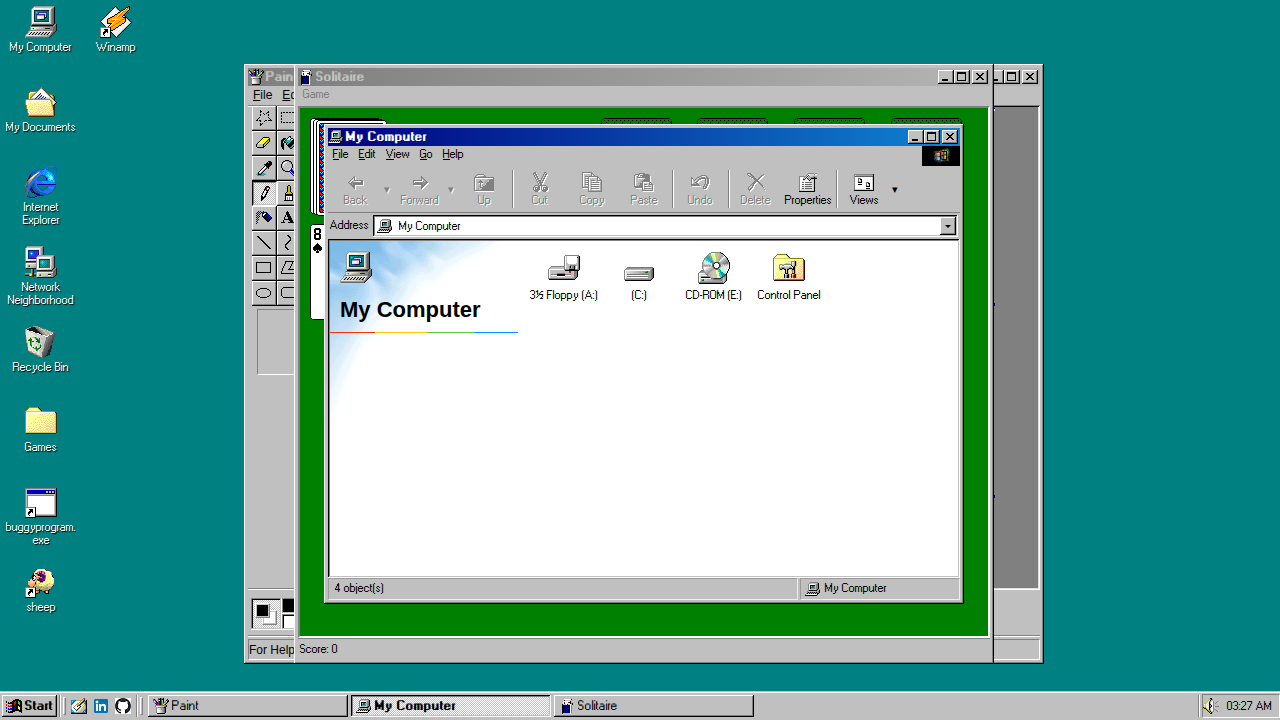
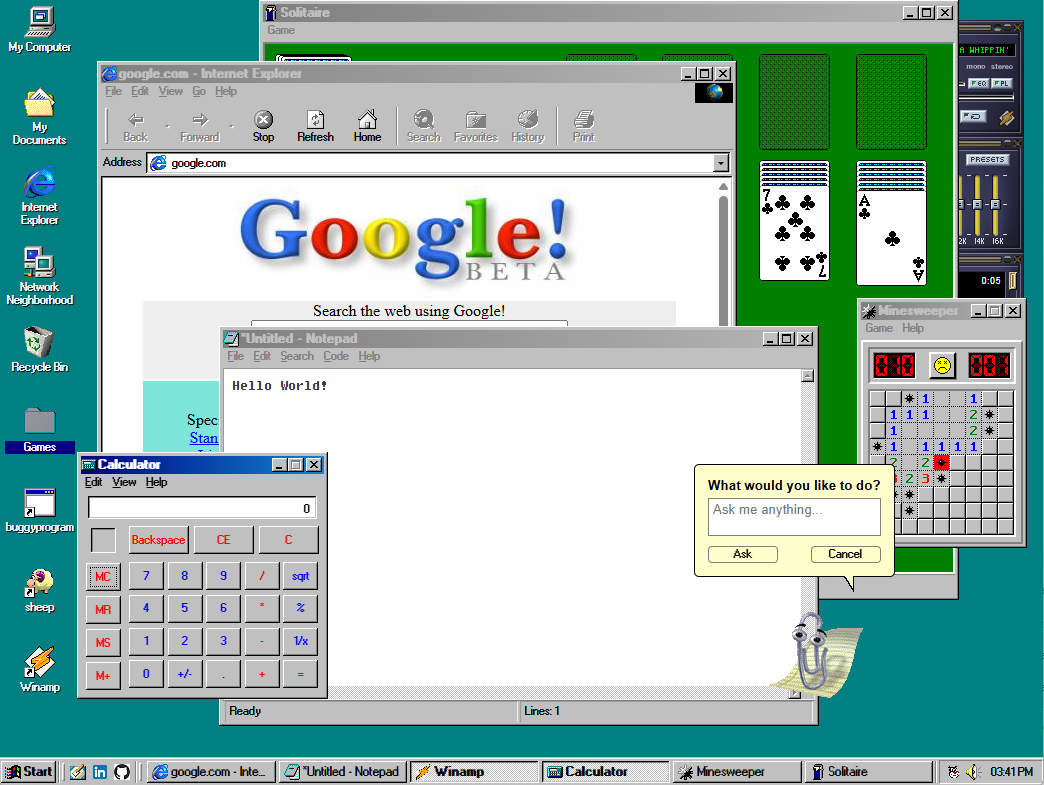
docs: fix README

diff --git a/README.md b/README.md
@@ -1,8 +1,8 @@
 # Windows 98 Web Edition
 
-> A nostalgic, browser‑based recreation of the Windows 98 desktop — built for curious users, retro enthusiasts, and developers who love tinkering.
+> An ultimate pixel-perfect browser‑based recreation attempt of Windows 98.
 
-A web-based recreation of the classic Windows 98 desktop experience, built using vanilla JavaScript, HTML, and CSS. Experience the familiar interface of Windows 98 directly in your modern browser, complete with working applications, customizable themes, and an AI-powered assistant.
+A web-based recreation of the classic Windows 98 desktop experience, built using vanilla JavaScript, HTML, and CSS. Experience the familiar interface of Windows 98 directly in your modern browser, complete with working applications and games, customizable themes, and an AI-powered Clippy.
 
 ![Windows 98 Web Edition Desktop](./docs/images/screenshot-desktop.png)
 *Windows 98 Web Edition Desktop*
@@ -19,8 +19,6 @@ A web-based recreation of the classic Windows 98 desktop experience, built using
 * [AI Assistant](#ai-assistant)
 * [Technologies Used](#technologies-used)
 * [Running Locally](#running-locally)
-* [Contributing](#contributing)
-* [FAQ & Troubleshooting](#faq--troubleshooting)
 * [Future Roadmap](#future-roadmap)
 * [Assets and Credits](#assets-and-credits)
 
@@ -42,37 +40,35 @@ Experience it directly in your browser:
 New to Windows 98 Web Edition? Here's how to get started:
 
 1. **Launch the Demo**: Click the live demo link above.
-2. **Open the Start Menu**: Click the Start button in the bottom-left corner.
-3. **Try Some Apps**: Navigate to **Programs** → **Accessories** → **Games** → **Solitaire** or **Programs** → **Accessories** → **Paint**.
-4. **Customize Your Desktop**: Right-click anywhere on the desktop → **Properties** to change themes and wallpapers.
-5. **Meet Clippy**: Launch the **Assistant** from the Start Menu (under **Programs** → **Accessories**) to activate the AI-powered Clippy. Once running, you can find it in the system tray.
+2. **Open the Start Menu**: Click the **Start** button in the bottom-left corner.
+3. **Try Some Apps**: Navigate to **Programs** → **Accessories** → **Games** → **Solitaire** or **Programs** → **Accessories** → **WordPad**.
+4. **Explore Your Folders**: Double-click **My Computer** from Desktop and go to **File** → **Insert Removable Disk** on top left corner of the window to mount a folder from your real computer as a virtual drive. You can open and edit text files, play music & video files and also play your SWF Flash games.
+4. **Browse the Retro Web**: Double-click **Internet Explorer** from Desktop and navigate to your favorite websites in 1998. Try google.com!
+5. **Customize Your Desktop**: Right-click anywhere on the desktop → **Properties** to change color schemes and wallpapers. You can also go to click Start button and navigate to **Settings** → **Control Panel** → **Desktop Themes** to apply a new theme.
+6. **Meet Clippy**: Launch the **Assistant** from the Start Menu (under **Programs** → **Accessories**) to activate the AI-powered Clippy. Ask about anything you want! Once running, you can find it in the system tray. 
 
 **Pro Tips:**
 * Drag windows by their title bars to move them around.
-* Double-click the title bar to maximize/restore windows.
+* Store your files in the **My Documents** folder for easy access.
 * Right-click almost anywhere for context menus.
-* Use Alt+F4 to close the active window.
 * Install as a PWA (look for the install icon in your browser's address bar) for a more app-like experience.
 * **Mount Local Folders**: Open **My Computer**, go to **File** → **Insert Removable Disk** to mount a folder from your real computer as a virtual drive.
 
-## Background & Origin
+## Background
 
-This project started as a small experiment to give my personal blog a retro, late‑90s desktop feel. As I explored window management, menus, and file‑like interactions, that experiment gradually grew into a full browser‑based desktop environment.
+This project started as a small experiment to give my portfolio website a Windows 98 theme. As I explored many WebOS UI and filesystem libraries and dabbled with LLM agents like Google Jules, that experiment gradually grew into a full browser‑based desktop environment.
 
-Over time, it became a deliberate challenge: to push how far a **vanilla JavaScript application** (no React, Vue, or Angular) could go, to explore OS‑like UI structures in the browser, and to test my ability to design and sustain a larger, long‑running personal project.
+Over time, it became a challenge: to push how far a **vanilla JavaScript application** (no React, Vue, or Angular) could go, to explore OS‑like UI structures in the browser, and to test my ability to design and sustain a larger, long‑running personal project. It's also my opportunity to experience collaboration with LLM AI and test their limits.
 
-What exists now is the natural result of that growth—still playful and nostalgic, but intentionally modular and open‑ended.
-
-**Why Windows 98?** It represents a sweet spot in computing history: advanced enough to be genuinely useful, simple enough to be understandable, and nostalgic enough to be fun. It's a reminder of when operating systems felt more like tools you could tinker with rather than black boxes.
+**Why Windows 98?** The main inspiration for this is actually my (parents') first computer ever, a Windows 98 machine. It is my first experience with a computer, and I remember the excitement of tinkering with it. That feeling is what I'd like for you to experience as well. 
 
 ## What You Can Do Here
 
 * Explore a browser-based desktop that behaves like a classic operating system.
-* Launch, move, resize, minimize, and manage multiple windows simultaneously.
 * Change themes, colors, wallpapers, and sound schemes to customize your experience.
 * Run classic games and utilities in an authentic retro environment.
 * Create, edit, and manage files in a persistent virtual file system.
-* **Mount local folders** as virtual drives (A:, D:, etc.) to work with your real files.
+* Mount local folders and .ISO files as virtual drives (A:, D:, etc.) to work with your real files.
 * Install the project as a Progressive Web App for offline access.
 * Chat with an AI-powered assistant for help and nostalgia.
 
@@ -81,25 +77,25 @@ What exists now is the natural result of that growth—still playful and nostalg
 Windows 98 Web Edition includes a growing collection of built-in applications. These range from games and media players to productivity tools and system utilities.
 
 ### Games & Entertainment
-* **Classic DOS Games**: Doom, Quake, Diablo, Prince of Persia, SimCity 2000, Commander Keen (via emulation).
-* **Windows Games**: Solitaire, FreeCell, Minesweeper, Pinball, Spider Solitaire.
+* **Windows Games**: Solitaire, FreeCell, Minesweeper, Spider Solitaire, remade from scratch. There's also Pinball Emscripten port available.
+* **Classic DOS Games**: Doom, Quake, Diablo, Prince of Persia, SimCity 2000, Commander Keen (via emulation). Yes, it can play Doom.
 * **Media Players**: Winamp (via Webamp), Media Player, Flash Player.
 
 ### Productivity & Accessories
 * **Text Editors**: Notepad, WordPad.
-* **Graphics**: Paint, Image Viewer, Image Resizer.
+* **Graphics**: Paint, Image Viewer.
 * **Utilities**: Calculator, PDF Viewer.
 
 ### System Tools
 * **File Explorer** with full file management and virtual drive support.
 * **Task Manager** for monitoring running applications.
-* **Command Prompt** with common DOS commands (DIR, CD, MD, DEL, COPY, etc.).
-* **Display Properties** for theme and appearance customization.
-* **Disk Defragmenter** (visual simulation).
-* **Help and Support Center**.
+* **MS-DOS Command Prompt** with common DOS commands (DIR, CD, MD, DEL, COPY, etc.).
+* **Display Properties & Desktop Themes** for theme and appearance customization.
+* **Disk Defragmenter** (visual simulation, not real defragmentation).
+* **Help & Report A Bug**.
 
 ### Special Features
-* **AI-Powered Assistant**: An intelligent assistant that can answer questions and help navigate the system.
+* **Assistant (Clippy)**: An intelligent assistant that can answer questions and help navigate the system.
 
 A complete and up-to-date list of applications, including development notes and how to create your own apps, is available here:
 
@@ -208,30 +204,25 @@ npm install
 npm run dev
 ```
 
-## Contributing
-
-Contributions are welcome! Please follow the existing code style and architecture. Found a bug or have a suggestion? Open an issue or submit a Pull Request.
-
 ## Future Roadmap
 
-* [ ] **Network Neighborhood**: Enhanced simulated network browsing.
-* [ ] **Multi-language Support**: Internationalization for UI elements.
-* [ ] **Performance Monitoring**: Real-time indicators in Task Manager.
-* [ ] **Application Templates**: Tools to scaffold new applications quickly.
+* [ ] **Theme Installation**: Allow users to install custom themes (.theme/.themepack/.reg).
+* [ ] **More Screensavers**: Recreate more Windows 98 Plus! screensavers.
+* [ ] **Virtual Floppy**: Implement virtual floppy disk image support (create & mount).
+* [ ] **WinZip**: Add WinZip to extract zip files with ZenFS Archive.
+* [ ] **Migration and Backup**: Implement migrating C: drive to local folder and creating backup.
 * [ ] **Testing Framework**: Expanded E2E and unit tests.
 * [ ] **TypeScript Migration**: Gradual introduction of type safety.
 
 ## Assets and Credits
 
-This project is for educational and nostalgic purposes. All rights to original Windows artwork, icons, and sounds belong to **Microsoft Corporation**.
+This project is for educational purposes. All rights to original Windows artwork, icons, and sounds belong to **Microsoft Corporation**.
 
 For a full list of third-party libraries and resources, see **[CREDITS.md](./CREDITS.md)**.
 
 ---
 
 <div align="center">
-
-Made with nostalgia and curiosity 💾
 
 [Live Demo](https://azayrahmad.github.io/win98-web/) • [Report Bug](https://github.com/azayrahmad/win98-web/issues)
 
